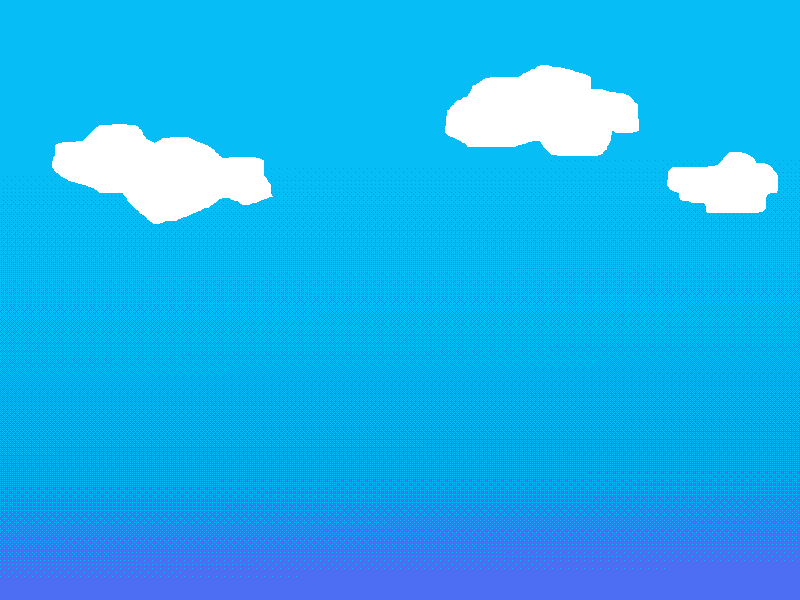
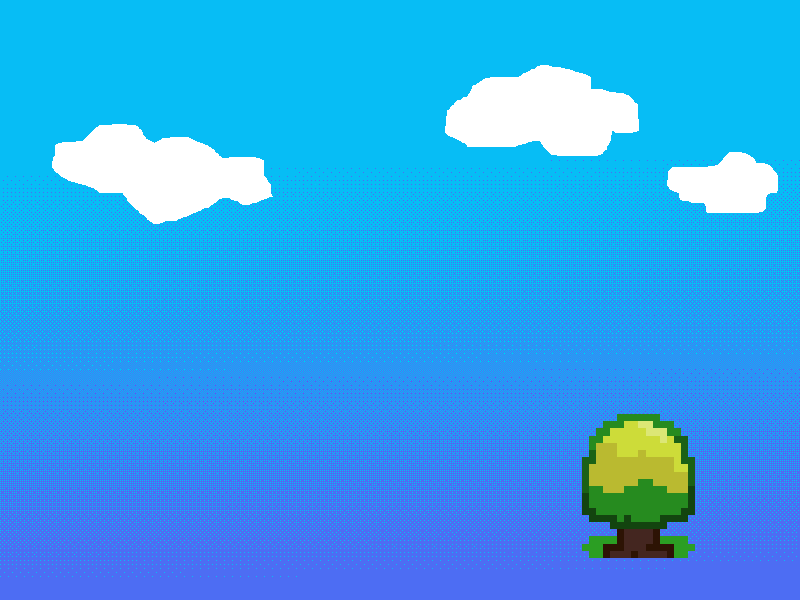
s

Changed region(s): [[0.7188, 0.69, 0.875, 0.93]]

diff --git a/Agrinho-Gamesxx/game.js b/Agrinho-Gamesxx/game.js
@@ -200,6 +200,8 @@ function create() {
     lagarta.setScale(1.5);
     lagarta.body.allowGravity = false;
 
+    lagarta.disableBody(true, true);
+
     lagarta.setActive(false);
     lagarta.setVisible(false);
 
@@ -367,8 +369,7 @@ function update() {
             else if (faseAtual === 3) {
                 background.setTexture('background3');
 
-                lagarta.setActive(true);
-                 lagarta.setVisible(true);
+                lagarta.enableBody(true, 600, 550, true, true);
             }
 
             else if (faseAtual === 4) {